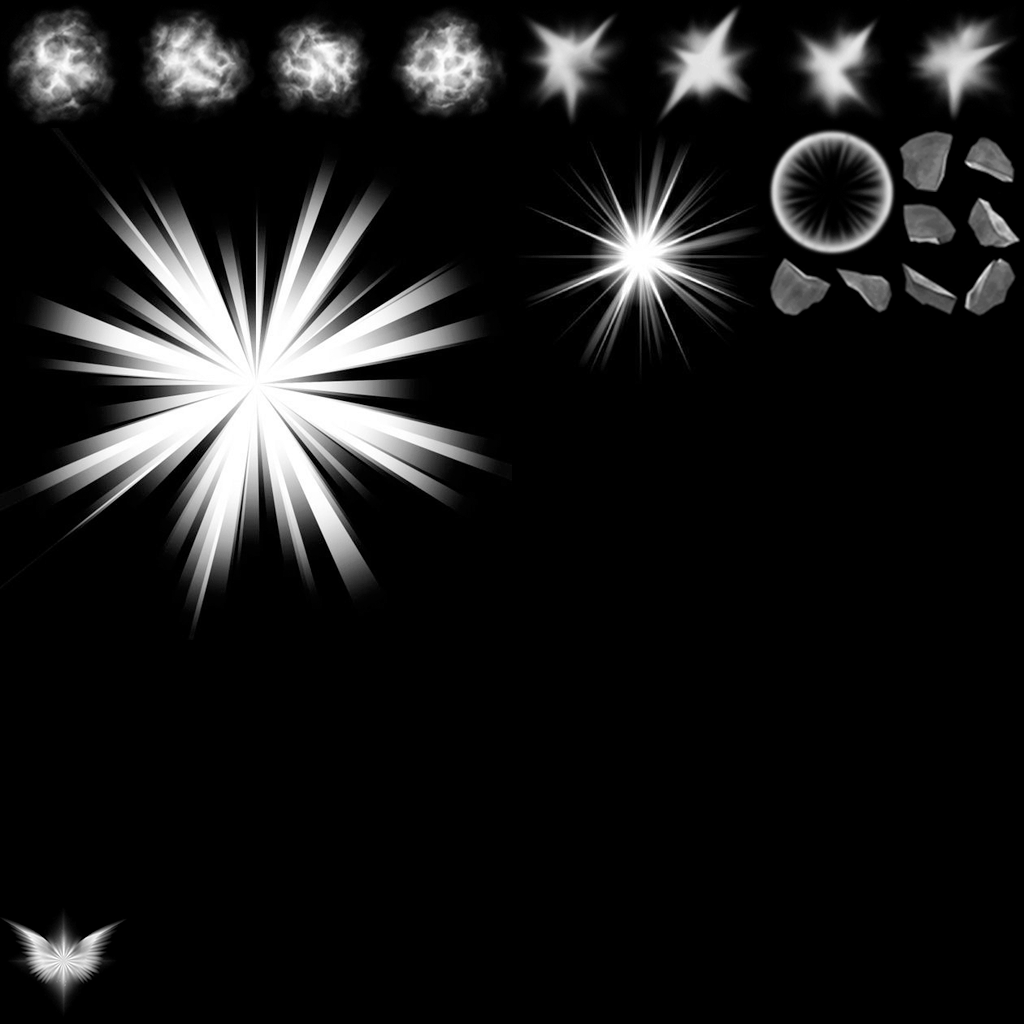
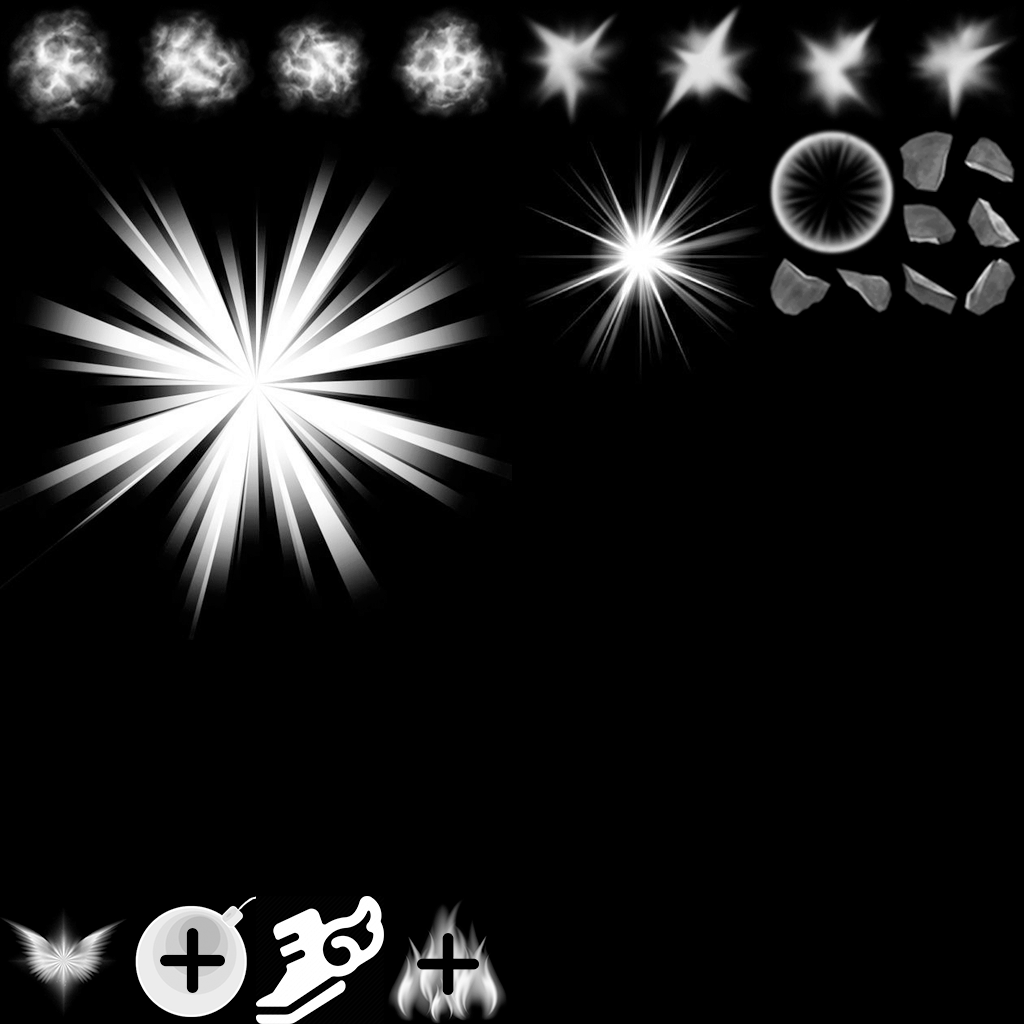
added boost textures

Changed region(s): [[0.125, 0.875, 0.5, 1.0]]

diff --git a/src/Application.js b/src/Application.js
@@ -37,6 +37,9 @@ let glowEffect1 = new Particle();
 let glowEffect2 = new Particle();
 
 let powerUpEffect = new Particle();
+let BombUpEffect = new Particle();
+let SpeedUpEffect = new Particle();
+let explosionUpEffect = new Particle();
 
 const arena = new Arena();
 
@@ -126,6 +129,22 @@ export async function Init()
     powerUpEffect.lifetime = 99999999;
     powerUpEffect.texCoord = [0 / 8, 0 / 8, 1 / 8, 1 / 8];
     particleSystem.emit(0, powerUpEffect);
+
+    BombUpEffect.position = [2, 2, 2];
+    BombUpEffect.lifetime = 99999999;
+    BombUpEffect.texCoord = [1 / 8, 0 / 8, 2 / 8, 1 / 8];
+    particleSystem.emit(0, BombUpEffect);
+
+    SpeedUpEffect.position = [3, 2, 3];
+    SpeedUpEffect.lifetime = 99999999;
+    SpeedUpEffect.texCoord = [2 / 8, 0 / 8, 3 / 8, 1 / 8];
+    particleSystem.emit(0, SpeedUpEffect);
+
+    explosionUpEffect.position = [4, 2, 4];
+    explosionUpEffect.lifetime = 99999999;
+    explosionUpEffect.texCoord = [3 / 8, 0 / 8, 4 / 8, 1 / 8];
+    particleSystem.emit(0, explosionUpEffect);
+
 
     /*glowEffect1.lifetime = 99999999;
     glowEffect1.texCoord = [0 / 8, 1 / 8, 4 / 8, 5 / 8];
